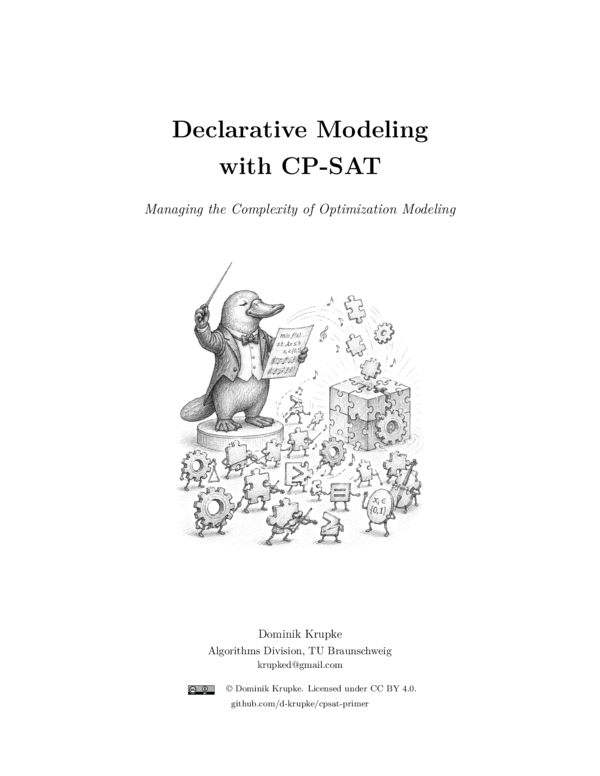
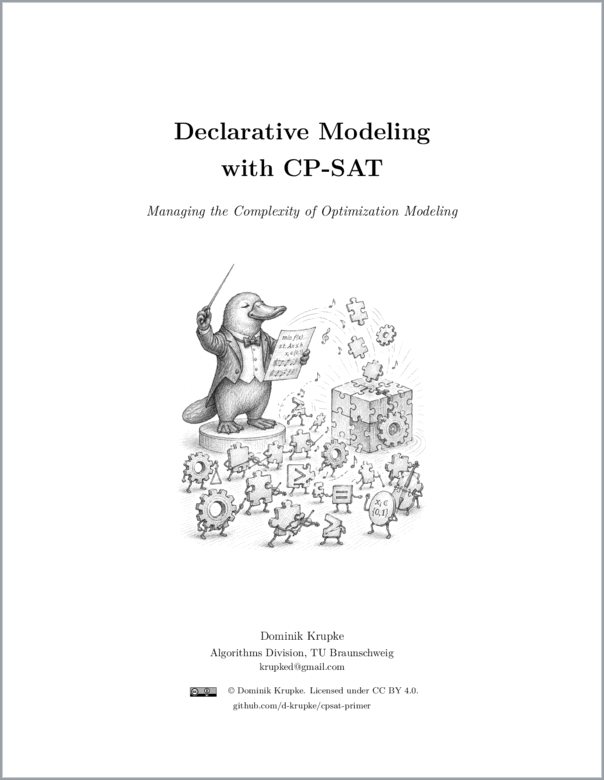
Frame the manuscript cover and make its PDF links download
- Bake a light gray frame into the title-page thumbnail so the cover no longer
  bleeds into a white page background (GitHub strips inline CSS, so the border
  has to live in the image).
- Point the three PDF links at raw.githubusercontent.com instead of the blob
  URL: it serves application/octet-stream, so clicking downloads the typeset PDF
  instead of opening GitHub's in-page preview.

diff --git a/README.md b/README.md
@@ -11929,15 +11929,15 @@ print("[SetCover] Chosen subsets:", ", ".join(chosen))
 
 <a name="chapters-declarative_modeling"></a>
 
-[**Declarative Modeling with CP-SAT**](https://github.com/d-krupke/cpsat-primer/blob/main/manuscripts/cpsat_declarative_modeling/cpsat_declarative_modeling.pdf)
+[**Declarative Modeling with CP-SAT**](https://raw.githubusercontent.com/d-krupke/cpsat-primer/main/manuscripts/cpsat_declarative_modeling/cpsat_declarative_modeling.pdf)
 is a standalone companion manuscript to this primer, available as a typeset PDF.
 
 <p align="center">
-  <a href="https://github.com/d-krupke/cpsat-primer/blob/main/manuscripts/cpsat_declarative_modeling/cpsat_declarative_modeling.pdf">
+  <a href="https://raw.githubusercontent.com/d-krupke/cpsat-primer/main/manuscripts/cpsat_declarative_modeling/cpsat_declarative_modeling.pdf">
     <img src="https://raw.githubusercontent.com/d-krupke/cpsat-primer/main/images/declarative_modeling_titlepage.png" alt="Declarative Modeling with CP-SAT — title page" width="320">
   </a>
   <br>
-  <em><a href="https://github.com/d-krupke/cpsat-primer/blob/main/manuscripts/cpsat_declarative_modeling/cpsat_declarative_modeling.pdf">Click the cover to read the typeset PDF</a></em>
+  <em><a href="https://raw.githubusercontent.com/d-krupke/cpsat-primer/main/manuscripts/cpsat_declarative_modeling/cpsat_declarative_modeling.pdf">Click the cover to read the typeset PDF</a></em>
 </p>
 
 The primer is the broader, more extensive resource: it covers CP-SAT in depth,

diff --git a/chapters/declarative_modeling.md b/chapters/declarative_modeling.md
@@ -2,15 +2,15 @@
 
 <a name="chapters-declarative_modeling"></a>
 
-[**Declarative Modeling with CP-SAT**](https://github.com/d-krupke/cpsat-primer/blob/main/manuscripts/cpsat_declarative_modeling/cpsat_declarative_modeling.pdf)
+[**Declarative Modeling with CP-SAT**](https://raw.githubusercontent.com/d-krupke/cpsat-primer/main/manuscripts/cpsat_declarative_modeling/cpsat_declarative_modeling.pdf)
 is a standalone companion manuscript to this primer, available as a typeset PDF.
 
 <p align="center">
-  <a href="https://github.com/d-krupke/cpsat-primer/blob/main/manuscripts/cpsat_declarative_modeling/cpsat_declarative_modeling.pdf">
+  <a href="https://raw.githubusercontent.com/d-krupke/cpsat-primer/main/manuscripts/cpsat_declarative_modeling/cpsat_declarative_modeling.pdf">
     <img src="https://raw.githubusercontent.com/d-krupke/cpsat-primer/main/images/declarative_modeling_titlepage.png" alt="Declarative Modeling with CP-SAT — title page" width="320">
   </a>
   <br>
-  <em><a href="https://github.com/d-krupke/cpsat-primer/blob/main/manuscripts/cpsat_declarative_modeling/cpsat_declarative_modeling.pdf">Click the cover to read the typeset PDF</a></em>
+  <em><a href="https://raw.githubusercontent.com/d-krupke/cpsat-primer/main/manuscripts/cpsat_declarative_modeling/cpsat_declarative_modeling.pdf">Click the cover to read the typeset PDF</a></em>
 </p>
 
 The primer is the broader, more extensive resource: it covers CP-SAT in depth,
